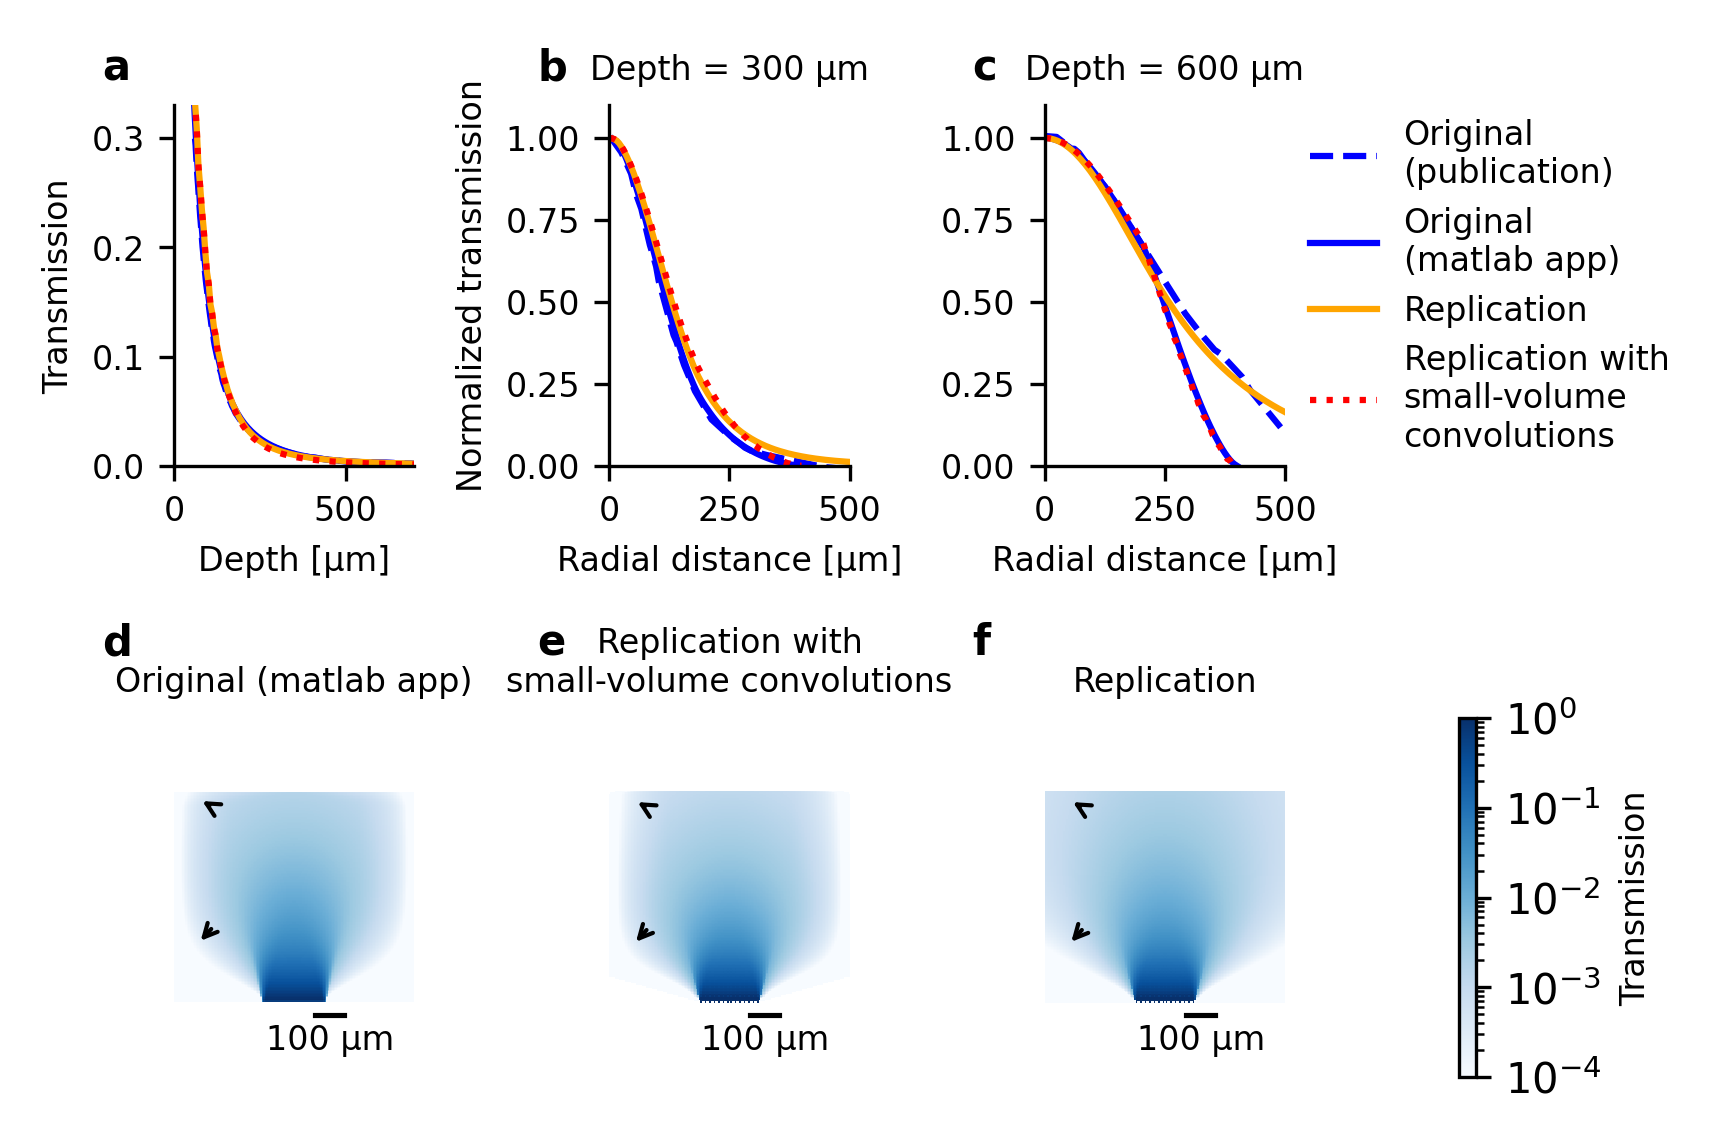
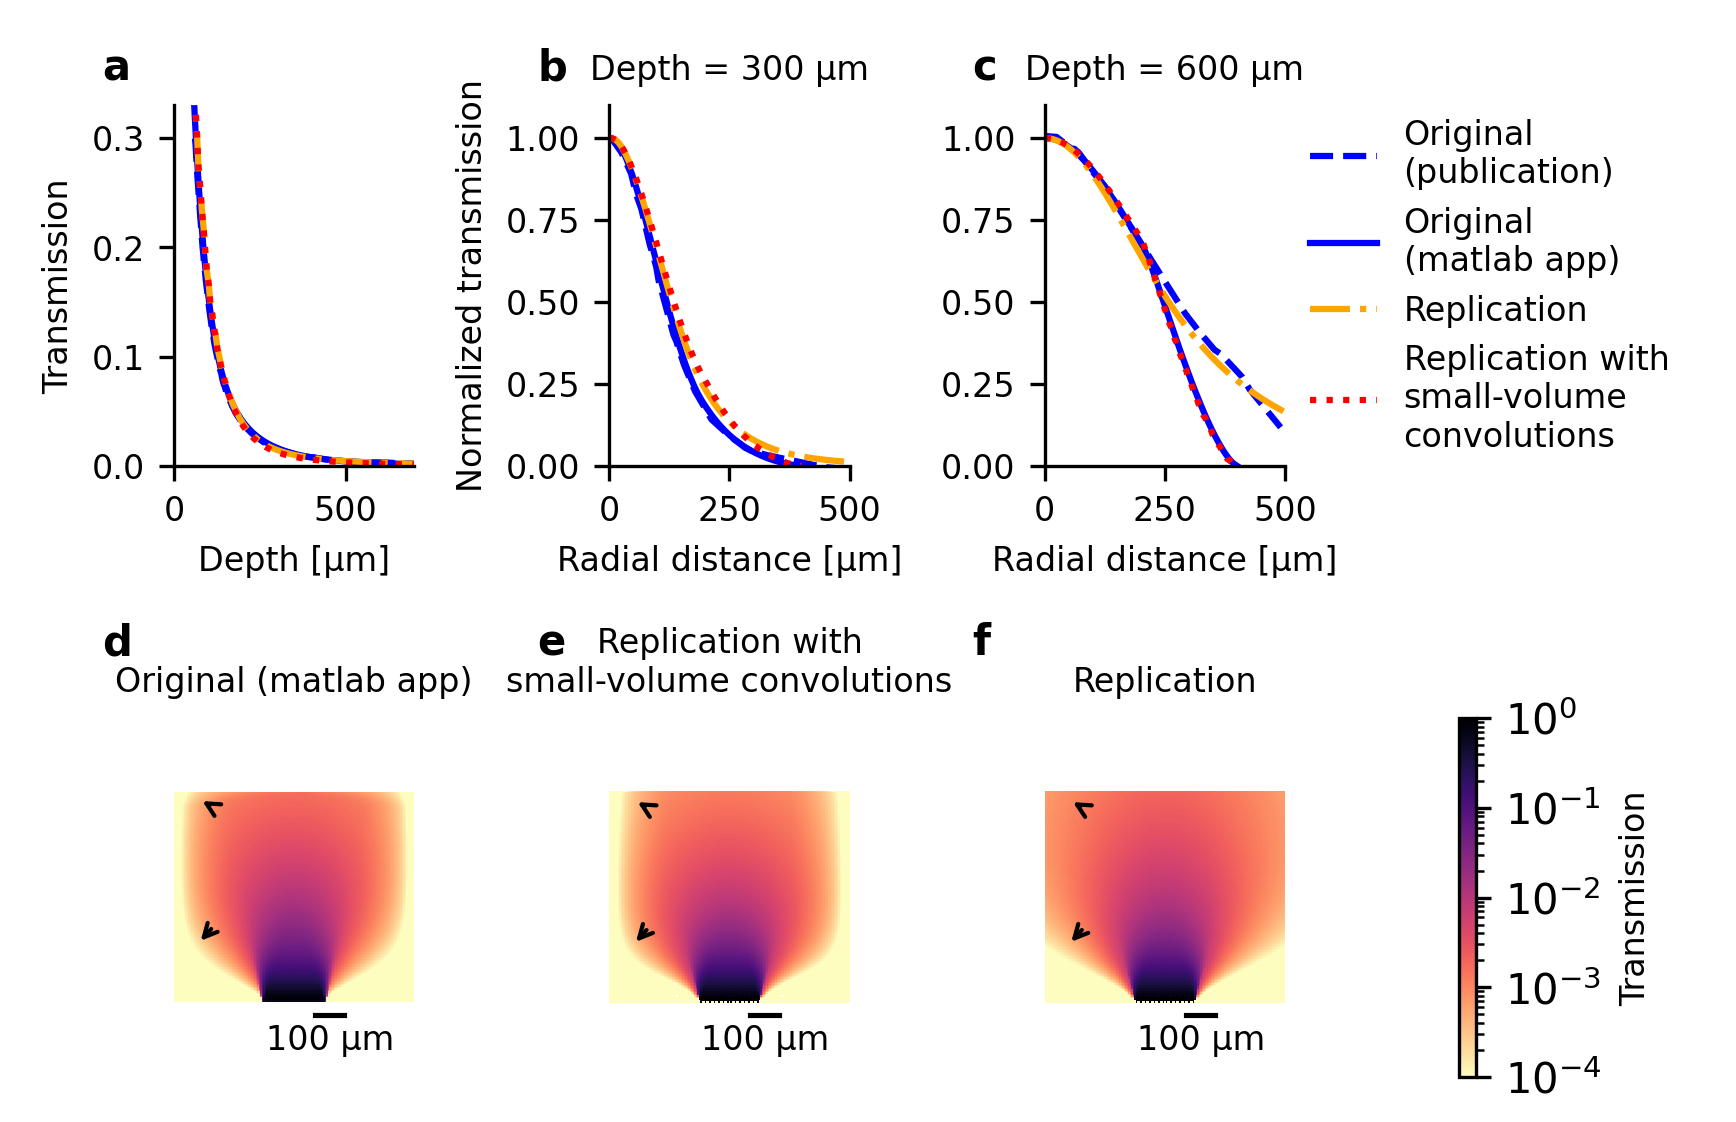
Revised figures and rm old comments in params

diff --git a/scripts/plot_figure2.py b/scripts/plot_figure2.py
@@ -36,7 +36,7 @@ axs[0].plot(
 axs[0].plot(
     replication['z'][1, :],
     replication['combined'][1, :],
-    ls='solid', 
+    ls='dashdot', 
     color='orange', 
     label='Replication'
 )
@@ -71,7 +71,7 @@ z300 = int(300/replication_params['dz'])
 axs[1].plot(
     replication['rho'][:, z300], 
     replication['combined'][:, z300]/replication['combined'][0, z300],
-    ls='solid', color='orange', 
+    ls='dashdot', color='orange', 
     label='Replication'
 )
 z300 = int(300/replication_err_params['dz'])
@@ -99,7 +99,7 @@ z600 = int(600/replication_params['dz'])
 axs[2].plot(
     replication['rho'][:, z600], 
     replication['combined'][:, z600]/replication['combined'][0, z600],
-    ls='solid', color='orange', 
+    ls='dashdot', color='orange', 
     label='Replication'
 )
 z600 = int(600/replication_err_params['dz'])
@@ -130,11 +130,13 @@ def plot_2D(x, z, data, ax, **kws):
     xm = mirror_x_axis(x, make_neg=True)
     zm = mirror_x_axis(z, make_neg=False)
     datam = mirror_x_axis(data, make_neg=False)
-    return ax.pcolormesh(xm,zm,datam, norm=LogNorm(1e-4,1), shading='nearest', cmap='Blues')
+    return ax.pcolormesh(xm,zm,datam, norm=LogNorm(1e-4,1), shading='nearest', cmap='magma_r')
 
 axs[3].set_title('Original (matlab app)', fontsize=fs)
 plot_2D(orig_matlab['xx'], orig_matlab['zz'], orig_matlab['data'], axs[3])
 axs[4].set_title('Replication with\nsmall-volume convolutions', fontsize=fs)
+# set all 0 to 1e-9 to avoid white-space in log-scale color-coding
+replication_err['combined'][replication_err['combined']==0] = 1e-9
 mapp = plot_2D(replication_err['rho'], replication_err['z'], replication_err['combined'], axs[4])
 axs[5].set_title('Replication', fontsize=fs)
 plot_2D(replication['rho'], replication['z'], replication['combined'], axs[5])

diff --git a/README.md b/README.md
@@ -20,12 +20,13 @@ Tested on Ubuntu 20.04 LTS and 22.04.4 LTS.
 
 ## Use code for modeling light propagation in cortical tissue
 
-1. Define simulation parameters, example can be found under `examples/default.yml` and under https://github.com/CSNG-MFF/bsf_light in `params/default.yml`
+1. Define simulation parameters, example can be found under `bsf_light/examples/default.yml` and under https://github.com/CSNG-MFF/bsf_light in `params/default.yml`
 
-2. Use commandline to run simulation using the run-script provided in `examples/run.py` and under https://github.com/CSNG-MFF/bsf_light in `scripts/run.py`, providing the parameter-file defined in step 1. and the location where simulation output shall be written to:
+2. Use commandline to run simulation using the run-script provided in `bsf_light/examples/run.py` and under https://github.com/CSNG-MFF/bsf_light in `scripts/run.py`, providing the parameter-file defined in step 1. and the location where simulation output shall be written to:
     ```python run.py PARAMETER_FILE OUTPUT_LOCATION```
 
 ## References
 
 [1] G. Yona, N. Meitav, I. Kahn, S. Shoham, Realistic Numerical and Analytical Modeling of Light Scattering in Brain Tissue for Optogenetic Applications. eNeuro 3, ENEURO.0059-15.2015 (2016).
+
 [2] To be announced.
